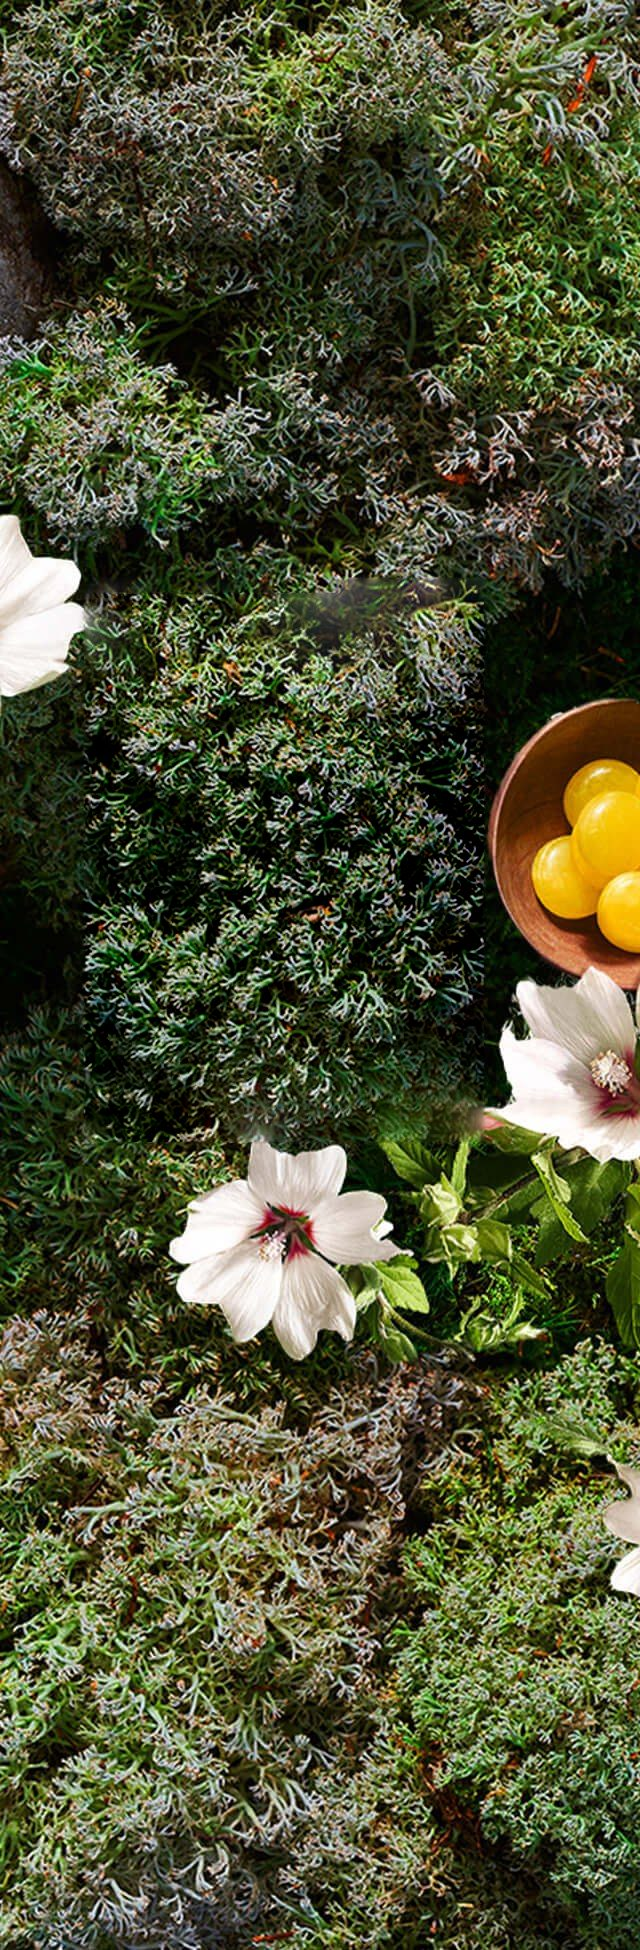
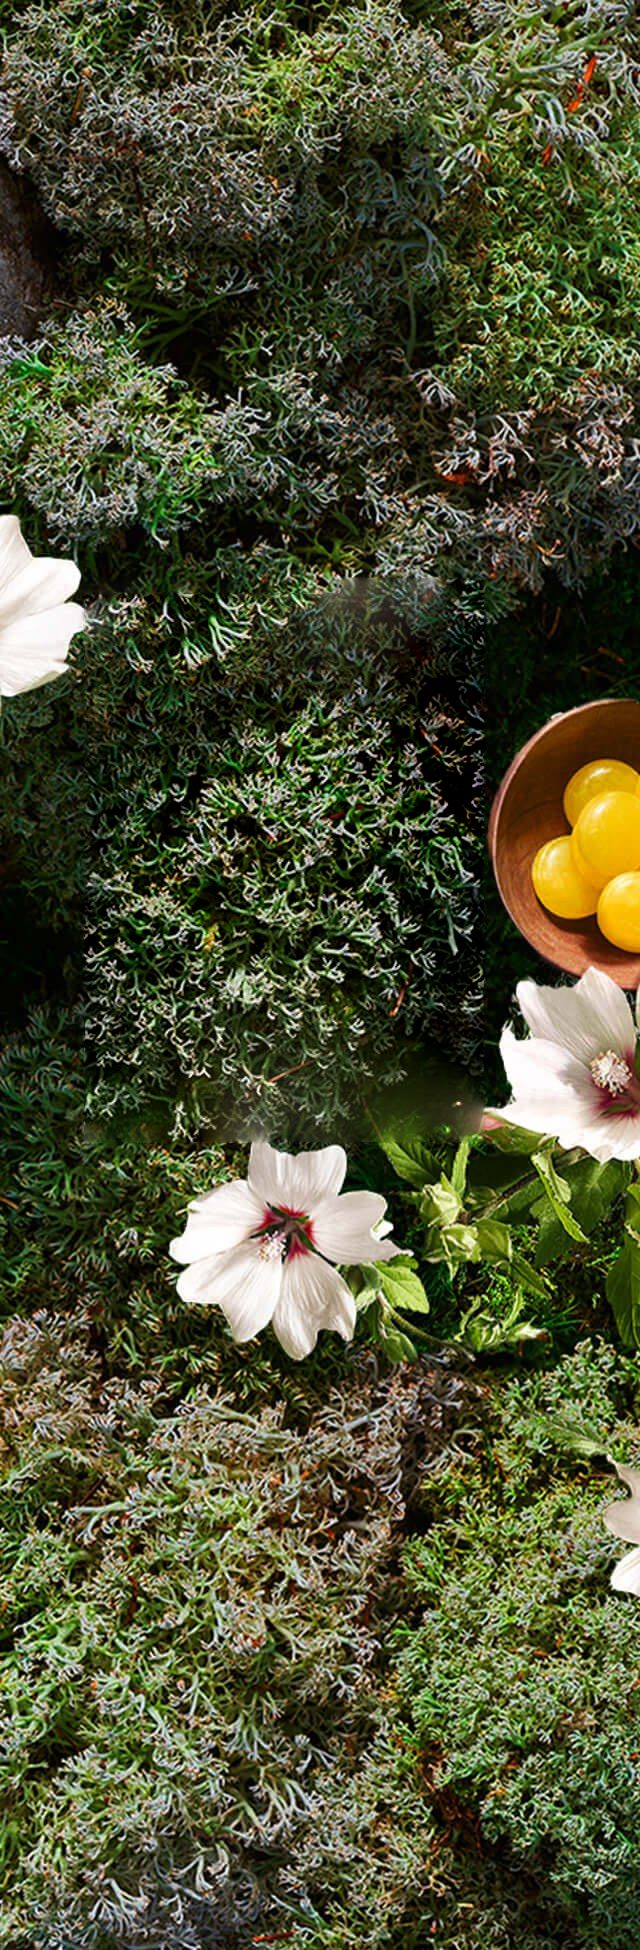
build static fireplace creatives, preview and debug overlay

Changed region(s): [[0.125, 0.2769, 0.7812, 0.5846]]

diff --git a/fireplace/preview.html b/fireplace/preview.html
@@ -1,0 +1,74 @@
+<!doctype html>
+<html lang="de">
+<head>
+  <meta charset="utf-8">
+  <title>Fireplace preview</title>
+  <link rel="icon" href="data:,">
+  <style>
+    body {
+      margin: 0;
+      background: #292929;
+    }
+
+    /* 320 + 4 + 1032 + 4 + 320. The 4px gaps match layout.png and the bg slices. */
+    #fireplace {
+      position: relative;
+      width: 1680px;
+      height: 975px;
+      transform-origin: 0 0;
+    }
+
+    iframe {
+      position: absolute;
+      top: 0;
+      border: 0;
+      display: block;
+    }
+
+    #left {
+      left: 0;
+      width: 320px;
+      height: 975px;
+    }
+
+    #top {
+      left: 324px;
+      width: 1032px;
+      height: 250px;
+    }
+
+    #right {
+      left: 1360px;
+      width: 320px;
+      height: 975px;
+    }
+  </style>
+</head>
+<body>
+  <div id="fireplace">
+    <iframe id="left" title="Fireplace left" scrolling="no"></iframe>
+    <iframe id="top" title="Fireplace top" scrolling="no"></iframe>
+    <iframe id="right" title="Fireplace right" scrolling="no"></iframe>
+  </div>
+  <script>
+    const FIREPLACE_WIDTH = 1680;
+    const FIREPLACE_HEIGHT = 975;
+    const fireplace = document.getElementById('fireplace');
+
+    // Shrinks to fit laptop screens. A full-width fireplace needs a 1680px window.
+    function fitToWindow() {
+      const scale = Math.min(1, document.documentElement.clientWidth / FIREPLACE_WIDTH);
+      fireplace.style.transform = `scale(${scale})`;
+      document.body.style.height = `${FIREPLACE_HEIGHT * scale}px`;
+    }
+
+    window.addEventListener('resize', fitToWindow);
+    fitToWindow();
+
+    // Passes the query on, so preview.html?debug=1 turns the overlay on in all three parts.
+    document.querySelectorAll('iframe').forEach((frame) => {
+      frame.src = `${frame.id}.html${location.search}`;
+    });
+  </script>
+</body>
+</html>

diff --git a/fireplace/css/fireplace.css b/fireplace/css/fireplace.css
@@ -1,0 +1,93 @@
+/* Shared by top.html, left.html and right.html. Sizes are CSS px; the assets are 2x. */
+
+html,
+body {
+  margin: 0;
+  background: #000;
+  overflow: hidden;
+}
+
+.ad {
+  position: relative;
+  overflow: hidden;
+  /* Keeps the blend modes below inside the ad. */
+  isolation: isolate;
+  cursor: pointer;
+  user-select: none;
+}
+
+.ad--top {
+  width: 1032px;
+  height: 250px;
+}
+
+.ad--left,
+.ad--right {
+  width: 320px;
+  height: 975px;
+}
+
+.ad img {
+  position: absolute;
+  top: 0;
+  left: 0;
+  display: block;
+}
+
+/* Exported at the size of the whole creative, so the position is baked into the image. */
+.layer {
+  width: 100%;
+  height: 100%;
+}
+
+.ad .product--left {
+  top: 278.5px;
+  left: 55.5px;
+  width: 211px;
+  height: 399px;
+}
+
+.ad .product--right {
+  top: 303.5px;
+  left: 43.5px;
+  width: 175px;
+  height: 246px;
+}
+
+/* box.png is a blue bar on opaque black, so the clip drops the black. Opacity and saturation
+   are fitted to layout.png, whose panel is more muted than the asset. */
+.panel {
+  clip-path: inset(744.5px 0 61px 0);
+  opacity: 0.93;
+  filter: saturate(0.7);
+}
+
+/* hl.png is white copy on opaque black, and screen makes black transparent. */
+.ad .copy {
+  top: -2px;
+  mix-blend-mode: screen;
+}
+
+.ad--right .copy {
+  left: -1px;
+}
+
+/* cta.png has black corners, so the radius trims them. The filter matches layout.png's red. */
+.ad .cta {
+  top: 836.5px;
+  left: 73px;
+  width: 172.5px;
+  height: 46.5px;
+  border-radius: 6px;
+  filter: saturate(0.8) brightness(1.1);
+}
+
+/* ?debug=1: the design on top of the build. Each part sets its own crop of layout.jpg. */
+.debug-layout {
+  position: absolute;
+  inset: 0;
+  z-index: 10;
+  opacity: 0.5;
+  pointer-events: none;
+  background: url('../debug/layout.jpg') no-repeat;
+}

diff --git a/fireplace/js/fireplace.js b/fireplace/js/fireplace.js
@@ -1,0 +1,23 @@
+const ad = document.getElementById('ad');
+const part = ad.dataset.part;
+
+// Where each part's top-left corner sits in layout.png, and that file's scale.
+// Measured by matching the supplied layers against it.
+const LAYOUT_SCALE = 0.975;
+const LAYOUT_SIZE = { width: 1684, height: 1018 };
+const LAYOUT_ORIGIN = {
+  left: { x: 28, y: 50 },
+  top: { x: 343, y: 50 },
+  right: { x: 1351, y: 50 },
+};
+
+function showDebugLayout() {
+  const origin = LAYOUT_ORIGIN[part];
+  const overlay = document.createElement('div');
+  overlay.className = 'debug-layout';
+  overlay.style.backgroundSize = `${LAYOUT_SIZE.width / LAYOUT_SCALE}px ${LAYOUT_SIZE.height / LAYOUT_SCALE}px`;
+  overlay.style.backgroundPosition = `${-origin.x / LAYOUT_SCALE}px ${-origin.y / LAYOUT_SCALE}px`;
+  ad.append(overlay);
+}
+
+if (new URLSearchParams(location.search).has('debug')) showDebugLayout();

diff --git a/fireplace/right.html b/fireplace/right.html
@@ -1,0 +1,20 @@
+<!doctype html>
+<html lang="de">
+<head>
+  <meta charset="utf-8">
+  <title>Fireplace right</title>
+  <link rel="icon" href="data:,">
+  <link rel="stylesheet" href="css/fireplace.css">
+</head>
+<body>
+  <main id="ad" class="ad ad--right" data-part="right">
+    <img class="layer bg" src="assets/right/bg.jpg" alt="">
+    <img class="product product--right" src="assets/right/product.png" alt="Produktpackung">
+    <img class="layer panel" src="assets/box.png" alt="">
+    <img class="layer copy" src="assets/right/hl.png" alt="Bildet einen beruhigenden Schutzfilm.">
+    <img class="layer logo" src="assets/right/logo.png" alt="Logo">
+    <img class="cta" src="assets/cta.png" alt="Jetzt entdecken">
+  </main>
+  <script type="module" src="js/fireplace.js"></script>
+</body>
+</html>

diff --git a/fireplace/left.html b/fireplace/left.html
@@ -1,0 +1,20 @@
+<!doctype html>
+<html lang="de">
+<head>
+  <meta charset="utf-8">
+  <title>Fireplace left</title>
+  <link rel="icon" href="data:,">
+  <link rel="stylesheet" href="css/fireplace.css">
+</head>
+<body>
+  <main id="ad" class="ad ad--left" data-part="left">
+    <img class="layer bg" src="assets/left/bg.jpg" alt="">
+    <img class="product product--left" src="assets/left/product.png" alt="Produktpackung">
+    <img class="layer panel" src="assets/box.png" alt="">
+    <img class="layer copy" src="assets/left/hl.png" alt="Beruhigt effektiv bei trockenem Reizhusten.">
+    <img class="layer logo" src="assets/left/logo.png" alt="Logo">
+    <img class="cta" src="assets/cta.png" alt="Jetzt entdecken">
+  </main>
+  <script type="module" src="js/fireplace.js"></script>
+</body>
+</html>

diff --git a/fireplace/top.html b/fireplace/top.html
@@ -1,0 +1,16 @@
+<!doctype html>
+<html lang="de">
+<head>
+  <meta charset="utf-8">
+  <title>Fireplace top</title>
+  <link rel="icon" href="data:,">
+  <link rel="stylesheet" href="css/fireplace.css">
+</head>
+<body>
+  <main id="ad" class="ad ad--top" data-part="top">
+    <img class="layer bg" src="assets/top/bg.jpg" alt="">
+    <img class="layer headline" src="assets/top/hl.png" alt="Stark bei Hustenreiz und Halsschmerzen.">
+  </main>
+  <script type="module" src="js/fireplace.js"></script>
+</body>
+</html>

diff --git a/tools/prepare_fireplace_assets.py b/tools/prepare_fireplace_assets.py
@@ -37,7 +37,7 @@ BAKED_PACKS = {
 
 # Moss to clone over each baked pack: top-left corner in bg-big.jpg, same size as the hole.
 # Chosen by searching the photo for even-toned areas matching the light around each hole.
-CLONE_FROM = {'left': (1440, 560), 'right': (2020, 1160)}
+CLONE_FROM = {'left': (1440, 560), 'right': (1632, 1344)}
 
 # Pack outlines in the pre-cut files, which are the layout's size and position.
 PACKS = {
